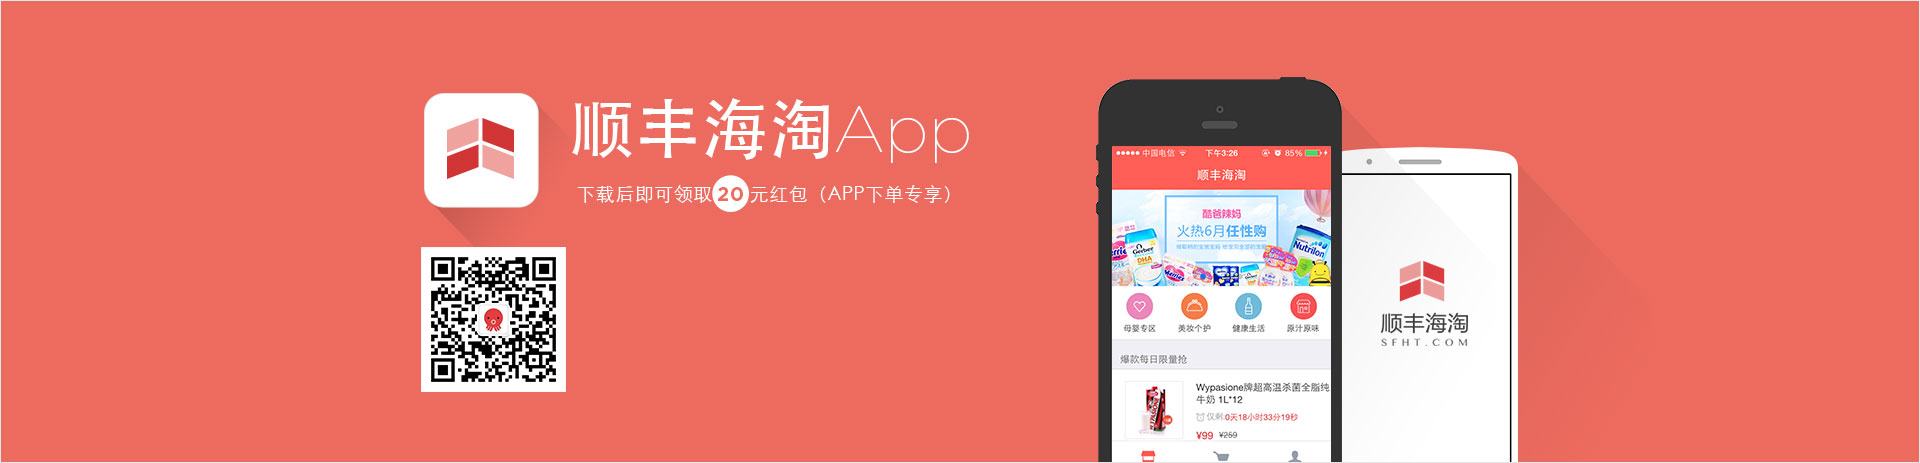
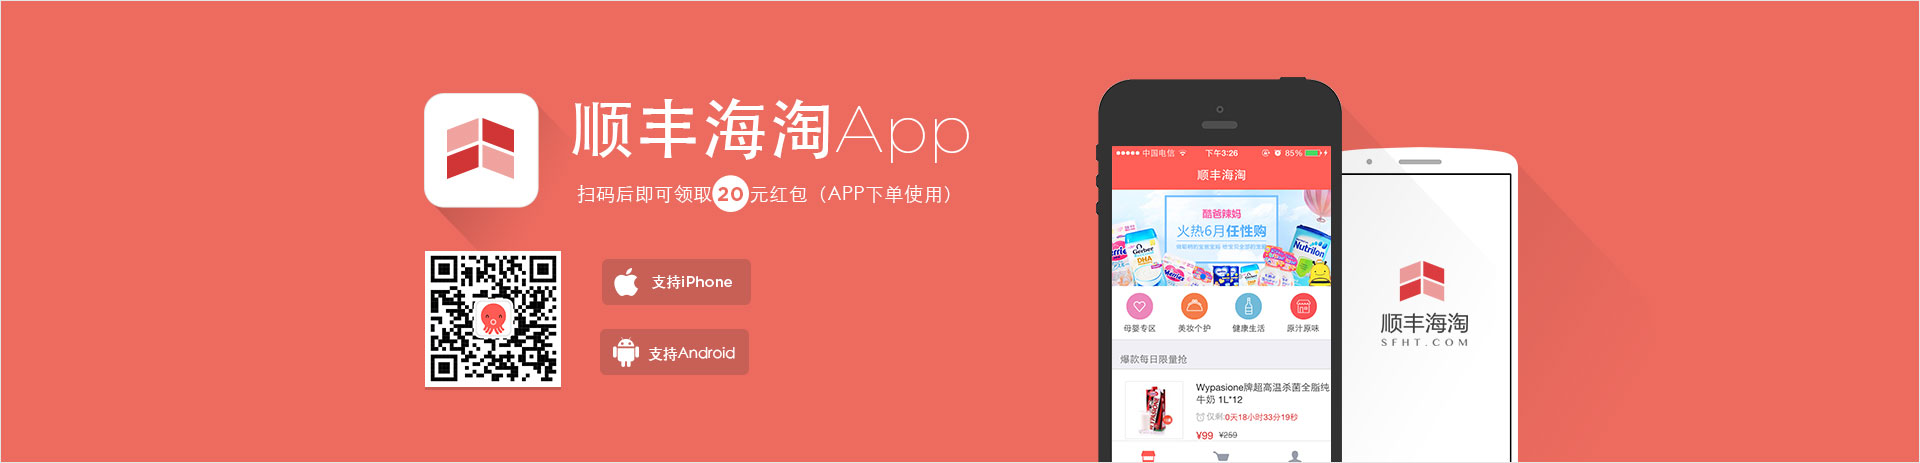
app下载

Changed region(s): [[0.2188, 0.514, 0.4062, 0.8467], [0.4688, 0.3931, 0.5, 0.4536], [0.2812, 0.3931, 0.3438, 0.4233]]

diff --git a/app/css/app.css b/app/css/app.css
@@ -1,1 +1,1 @@
-.app-banner{background:url(../img/app/app-banner.jpg) no-repeat center top;height:464px}.app-banner .pm{position:relative}.app-banner a{position:absolute;width:149px;height:46px;left:231px;text-indent:-999em}.app-banner a:hover{opacity:0.8}.app-banner-ios{top:260px;background:url(../img/app/app-banner-ios.png) no-repeat}.app-banner-android{background:url(../img/app/app-banner-android.png) no-repeat;top:327px}.app-anywhere{position:relative;background:#f1f2e7 url(../img/app/app-map.png) repeat-x center 270px;text-align:center;color:#4a4a4a}.app-anywhere-bg{background:url(../img/app/app-anywhere-bg.png) repeat-x left 474px;height:900px;-webkit-animation:app-anywhere-bg 20s linear forwards infinite;animation:app-anywhere-bg 20s linear forwards infinite}@-webkit-keyframes app-anywhere-bg{100%{background-position:-1190px 474px}}@keyframes app-anywhere-bg{100%{background-position:-1190px 474px}}.app-anywhere h2{font-size:48px;font-weight:normal;margin-bottom:20px;padding-top:96px}.app-anywhere p{font-size:18px}.app-anywhere-phone{margin-left:-138px;position:absolute;left:50%;margin-top:90px}.app-anywhere-plane{position:absolute;left:50%;top:547px;-webkit-transform:translate3d(-50%, -3px, 0);transform:translate3d(-50%, -3px, 0);-webkit-animation:app-anywhere-plane 1s linear forwards infinite;animation:app-anywhere-plane 1s linear forwards infinite}@-webkit-keyframes app-anywhere-plane{50%{-webkit-transform:translate3d(-50%, 3px, 0);transform:translate3d(-50%, 3px, 0)}100%{-webkit-transform:translate3d(-50%, -3px, 0);transform:translate3d(-50%, -3px, 0)}}@keyframes app-anywhere-plane{50%{-webkit-transform:translate3d(-50%, 3px, 0);transform:translate3d(-50%, 3px, 0)}100%{-webkit-transform:translate3d(-50%, -3px, 0);transform:translate3d(-50%, -3px, 0)}}.app-favorable{padding-top:131px;padding-bottom:170px;background:#fff url(../img/app/app-favorable.png) no-repeat center 305px}.app-favorable li{float:left;text-align:center}.app-favorable .li1{width:380px}.app-favorable .li2{width:448px}.app-favorable .li3{width:351px}.app-favorable h2{font-size:48px;text-align:center;font-weight:normal;margin-bottom:345px}.app-favorable h3{min-width:175px;height:48px;line-height:48px;color:#fff;background:#80ba7d;display:inline-block;padding:0 17px;font-weight:normal;margin-bottom:12px;font-size:21px}.app-favorable p{font-size:16px}.app-logistics{background:#f1f2e7;text-align:center;color:#4a4a4a;position:relative}.app-logistics-bg{background:url(../img/app/app-logistics-bg.png) repeat-x left 434px;-webkit-animation:app-logistics-bg 20s linear forwards infinite;animation:app-logistics-bg 20s linear forwards infinite;padding-top:103px;padding-bottom:137px}.app-logistics h2{font-size:48px;margin-bottom:28px;font-weight:normal}.app-logistics p{font-size:16px;margin-bottom:104px}.app-logistics-where{margin-bottom:83px}.app-logistics-tire1,.app-logistics-tire2{position:absolute;left:50%;top:626px;margin-left:-106px}.app-logistics-tire2{margin-left:95px}.app-logistics-car{-webkit-transform:translate(0, -1px);-ms-transform:translate(0, -1px);transform:translate(0, -1px);-webkit-animation:app-logistics-car 0.5s linear forwards infinite;animation:app-logistics-car 0.5s linear forwards infinite}.app-logistics-shadow{position:absolute;top:673px;left:50%;margin-left:-130px;-webkit-animation:app-logistics-shadow 0.5s linear forwards infinite;animation:app-logistics-shadow 0.5s linear forwards infinite}@-webkit-keyframes app-logistics-bg{100%{background-position:-1920px 434px}}@keyframes app-logistics-bg{100%{background-position:-1920px 434px}}@-webkit-keyframes app-logistics-car{50%{-webkit-transform:translate3d(0, 1px, 0);transform:translate3d(0, 1px, 0)}100%{-webkit-transform:translate3d(0, -1px, 0);transform:translate3d(0, -1px, 0)}}@keyframes app-logistics-car{50%{-webkit-transform:translate3d(0, 1px, 0);transform:translate3d(0, 1px, 0)}100%{-webkit-transform:translate3d(0, -1px, 0);transform:translate3d(0, -1px, 0)}}@-webkit-keyframes app-logistics-shadow{50%{-webkit-transform:scaleX(0.8);transform:scaleX(0.8)}100%{-webkit-transform:scaleX(1);transform:scaleX(1)}}@keyframes app-logistics-shadow{50%{-webkit-transform:scaleX(0.8);transform:scaleX(0.8)}100%{-webkit-transform:scaleX(1);transform:scaleX(1)}}.app-user{background:#ec6b5f;color:#fff;text-align:center;padding-top:84px;padding-bottom:81px}.app-user h2{font-size:48px;font-weight:normal;margin-bottom:49px}.app-user ul{width:1184px;height:129px;display:inline-block;border:3px solid #f7c4bf;padding-top:32px;position:relative;-webkit-box-sizing:border-box;-moz-box-sizing:border-box;box-sizing:border-box}.app-user ul:before{content:'';position:absolute;border-width:10px;border-style:solid;border-color:#f7c4bf transparent transparent #f7c4bf;left:37px;bottom:-23px}.app-user li{font-size:18px;line-height:34px;display:inline-block}.app-download{background:#333;color:#fff;padding-top:47px;padding-bottom:100px;text-align:center;font-size:13px;line-height:20px}.app-qrcode{margin-bottom:23px;padding:7px;background:#fff;border:2px solid #262626}.app-download span{display:inline-block;width:22px;height:22px;line-height:22px;text-align:center;color:#ec6b5f;background:#fff;-webkit-border-radius:50%;border-radius:50%}.app-download p{margin-bottom:23px}.app-download-r1{color:#8a8a8a;margin-bottom:10px}.app-download-r2 a{width:31px;height:31px;text-indent:-999em;-webkit-border-radius:50%;border-radius:50%;display:inline-block;margin:0 6px;background-color:#8a8a8a;background-position:center;background-repeat:no-repeat;position:relative}.app-download-qrcode{position:absolute;left:40px;top:-40px;display:none}.app-download-weibo{background-image:url(../img/app/app-download-weibo.png)}.app-download-weibo:hover{background-image:url(../img/app/app-download-weibo-hover.png)}.app-download-weixin{background-image:url(../img/app/app-download-weixin.png)}.app-download-weixin:hover{background-image:url(../img/app/app-download-weixin-hover.png)}.app-download-weixin:hover .app-download-qrcode{display:block}
+.app-banner{background:url(../img/app/app-banner.jpg) no-repeat center top;height:464px}.app-anywhere{position:relative;background:#f1f2e7 url(../img/app/app-map.png) repeat-x center 270px;text-align:center;color:#4a4a4a}.app-anywhere-bg{background:url(../img/app/app-anywhere-bg.png) repeat-x left 474px;height:900px;-webkit-animation:app-anywhere-bg 20s linear forwards infinite;animation:app-anywhere-bg 20s linear forwards infinite}@-webkit-keyframes app-anywhere-bg{100%{background-position:-1190px 474px}}@keyframes app-anywhere-bg{100%{background-position:-1190px 474px}}.app-anywhere h2{font-size:48px;font-weight:normal;margin-bottom:20px;padding-top:96px}.app-anywhere p{font-size:18px}.app-anywhere-phone{margin-left:-138px;position:absolute;left:50%;margin-top:90px}.app-anywhere-plane{position:absolute;left:50%;top:547px;-webkit-transform:translate3d(-50%, -3px, 0);transform:translate3d(-50%, -3px, 0);-webkit-animation:app-anywhere-plane 1s linear forwards infinite;animation:app-anywhere-plane 1s linear forwards infinite}@-webkit-keyframes app-anywhere-plane{50%{-webkit-transform:translate3d(-50%, 3px, 0);transform:translate3d(-50%, 3px, 0)}100%{-webkit-transform:translate3d(-50%, -3px, 0);transform:translate3d(-50%, -3px, 0)}}@keyframes app-anywhere-plane{50%{-webkit-transform:translate3d(-50%, 3px, 0);transform:translate3d(-50%, 3px, 0)}100%{-webkit-transform:translate3d(-50%, -3px, 0);transform:translate3d(-50%, -3px, 0)}}.app-favorable{padding-top:131px;padding-bottom:170px;background:#fff url(../img/app/app-favorable.png) no-repeat center 305px}.app-favorable li{float:left;text-align:center}.app-favorable .li1{width:380px}.app-favorable .li2{width:448px}.app-favorable .li3{width:351px}.app-favorable h2{font-size:48px;text-align:center;font-weight:normal;margin-bottom:345px}.app-favorable h3{min-width:175px;height:48px;line-height:48px;color:#fff;background:#80ba7d;display:inline-block;padding:0 17px;font-weight:normal;margin-bottom:12px;font-size:21px}.app-favorable p{font-size:16px}.app-logistics{background:#f1f2e7;text-align:center;color:#4a4a4a;position:relative}.app-logistics-bg{background:url(../img/app/app-logistics-bg.png) repeat-x left 434px;-webkit-animation:app-logistics-bg 20s linear forwards infinite;animation:app-logistics-bg 20s linear forwards infinite;padding-top:103px;padding-bottom:137px}.app-logistics h2{font-size:48px;margin-bottom:28px;font-weight:normal}.app-logistics p{font-size:16px;margin-bottom:104px}.app-logistics-where{margin-bottom:83px}.app-logistics-tire1,.app-logistics-tire2{position:absolute;left:50%;top:626px;margin-left:-106px}.app-logistics-tire2{margin-left:95px}.app-logistics-car{-webkit-transform:translate(0, -1px);-ms-transform:translate(0, -1px);transform:translate(0, -1px);-webkit-animation:app-logistics-car 0.5s linear forwards infinite;animation:app-logistics-car 0.5s linear forwards infinite}.app-logistics-shadow{position:absolute;top:673px;left:50%;margin-left:-130px;-webkit-animation:app-logistics-shadow 0.5s linear forwards infinite;animation:app-logistics-shadow 0.5s linear forwards infinite}@-webkit-keyframes app-logistics-bg{100%{background-position:-1920px 434px}}@keyframes app-logistics-bg{100%{background-position:-1920px 434px}}@-webkit-keyframes app-logistics-car{50%{-webkit-transform:translate3d(0, 1px, 0);transform:translate3d(0, 1px, 0)}100%{-webkit-transform:translate3d(0, -1px, 0);transform:translate3d(0, -1px, 0)}}@keyframes app-logistics-car{50%{-webkit-transform:translate3d(0, 1px, 0);transform:translate3d(0, 1px, 0)}100%{-webkit-transform:translate3d(0, -1px, 0);transform:translate3d(0, -1px, 0)}}@-webkit-keyframes app-logistics-shadow{50%{-webkit-transform:scaleX(0.8);transform:scaleX(0.8)}100%{-webkit-transform:scaleX(1);transform:scaleX(1)}}@keyframes app-logistics-shadow{50%{-webkit-transform:scaleX(0.8);transform:scaleX(0.8)}100%{-webkit-transform:scaleX(1);transform:scaleX(1)}}.app-user{background:#ec6b5f;color:#fff;text-align:center;padding-top:84px;padding-bottom:81px}.app-user h2{font-size:48px;font-weight:normal;margin-bottom:49px}.app-user ul{width:1184px;height:129px;display:inline-block;border:3px solid #f7c4bf;padding-top:32px;position:relative;-webkit-box-sizing:border-box;-moz-box-sizing:border-box;box-sizing:border-box}.app-user ul:before{content:'';position:absolute;border-width:10px;border-style:solid;border-color:#f7c4bf transparent transparent #f7c4bf;left:37px;bottom:-23px}.app-user li{font-size:18px;line-height:34px;display:inline-block}.app-download{background:#333;color:#fff;padding-top:47px;padding-bottom:100px;text-align:center;font-size:13px;line-height:20px}.app-qrcode{margin-bottom:23px;padding:7px;background:#fff;border:2px solid #262626}.app-download span{display:inline-block;width:22px;height:22px;line-height:22px;text-align:center;color:#ec6b5f;background:#fff;-webkit-border-radius:50%;border-radius:50%}.app-download p{margin-bottom:23px}.app-download-r1{color:#8a8a8a;margin-bottom:10px}.app-download-r2 a{width:31px;height:31px;text-indent:-999em;-webkit-border-radius:50%;border-radius:50%;display:inline-block;margin:0 6px;background-color:#8a8a8a;background-position:center;background-repeat:no-repeat;position:relative}.app-download-qrcode{position:absolute;left:40px;top:-40px;display:none}.app-download-weibo{background-image:url(../img/app/app-download-weibo.png)}.app-download-weibo:hover{background-image:url(../img/app/app-download-weibo-hover.png)}.app-download-weixin{background-image:url(../img/app/app-download-weixin.png)}.app-download-weixin:hover{background-image:url(../img/app/app-download-weixin-hover.png)}.app-download-weixin:hover .app-download-qrcode{display:block}

diff --git a/app/html/app.html b/app/html/app.html
@@ -1,1 +1,1 @@
-<!DOCTYPE html PUBLIC "-//W3C//DTD XHTML 1.0 Transitional//EN" "http://www.w3.org/TR/xhtml1/DTD/xhtml1-transitional.dtd"><html xmlns="http://www.w3.org/1999/xhtml"><head><meta http-equiv="Content-Type" content="text/html; charset=utf-8" /><meta name="viewport" content="width=1280"><title>app下载</title><link href="../css/common.css" rel="stylesheet" type="text/css" /><link href="../css/app.css" rel="stylesheet" type="text/css" /></head><body><div class="app-banner"><div class="pm"><a href="" class="app-banner-ios">app store下载</a><a href="" class="app-banner-android">android下载</a></div></div><div class="app-anywhere"><div class="app-anywhere-bg pm"><h2>随时随地海淘</h2><p>地铁公交想淘就淘  从此海淘变成上下班消遣项啦</p><img class="app-anywhere-phone" src="../img/app/app-anywhere-phone.png"><img class="app-anywhere-plane" src="../img/app/app-anywhere-plane.png"></div></div><div class="app-favorable"><div class="pm"><h2>App专享优惠</h2><ul class="clearfix"><li class="li1"><h3>APP专属红包</h3><p>APP专属无门槛抵用券，还不快抢</p></li><li class="li2"><h3>积分零钱包</h3><p>APP专享双倍积分，下单抵用直减</p></li><li class="li3"><h3>一大波专享活动来袭</h3><p>不是APP用户我不告诉他 </p></li></ul></div></div><div class="app-logistics"><div class="app-logistics-bg"><h2>随时随地查物流</h2><p>宝贝到哪里了？APP知道!</p><img class="app-logistics-where" src="../img/app/app-logistics-where.png"><br><img class="app-logistics-car" src="../img/app/app-car.png"><img class="app-logistics-shadow" src="../img/app/app-shadow.png"><img class="app-logistics-tire1" src="../img/app/app-tire.png"><img class="app-logistics-tire2" src="../img/app/app-tire.png"></div></div><div class="app-user"><h2>听听用户心声</h2><ul><li>他们给我推荐这个APP，</li><li>一开始我是拒绝的，</li><li>他们说都是海外正品还有很多优惠，</li><li>我觉得也是骗人的，</li><li>直到我用了以后，</li><li>Duang~~买买买，</li><li>根本停不下来！</li></ul></div><div class="app-download"><img src="../img/app/app-qrcode.png" class="app-qrcode"><p>下载后即可领取<span>20</span>元红包（APP下单专享）</p><div class="app-download-r1">关注我们</div><div class="app-download-r2"><a class="app-download-weibo" href="">微博</a><a class="app-download-weixin" href="">微信<img src="../img/app/app-download-qrcode.png" class="app-download-qrcode"></a></div></div></body></html>
+<!DOCTYPE html PUBLIC "-//W3C//DTD XHTML 1.0 Transitional//EN" "http://www.w3.org/TR/xhtml1/DTD/xhtml1-transitional.dtd"><html xmlns="http://www.w3.org/1999/xhtml"><head><meta http-equiv="Content-Type" content="text/html; charset=utf-8" /><meta name="viewport" content="width=1280"><title>app下载</title><link href="../css/common.css" rel="stylesheet" type="text/css" /><link href="../css/app.css" rel="stylesheet" type="text/css" /></head><body><div class="app-banner"></div><div class="app-anywhere"><div class="app-anywhere-bg pm"><h2>随时随地海淘</h2><p>地铁公交想淘就淘  从此海淘变成上下班消遣项啦</p><img class="app-anywhere-phone" src="../img/app/app-anywhere-phone.png"><img class="app-anywhere-plane" src="../img/app/app-anywhere-plane.png"></div></div><div class="app-favorable"><div class="pm"><h2>App专享优惠</h2><ul class="clearfix"><li class="li1"><h3>APP专属红包</h3><p>APP专属无门槛抵用券，还不快抢</p></li><li class="li2"><h3>积分零钱包</h3><p>APP专享双倍积分，下单抵用直减</p></li><li class="li3"><h3>一大波专享活动来袭</h3><p>不是APP用户我不告诉他 </p></li></ul></div></div><div class="app-logistics"><div class="app-logistics-bg"><h2>随时随地查物流</h2><p>宝贝到哪里了？APP知道!</p><img class="app-logistics-where" src="../img/app/app-logistics-where.png"><br><img class="app-logistics-car" src="../img/app/app-car.png"><img class="app-logistics-shadow" src="../img/app/app-shadow.png"><img class="app-logistics-tire1" src="../img/app/app-tire.png"><img class="app-logistics-tire2" src="../img/app/app-tire.png"></div></div><div class="app-user"><h2>听听用户心声</h2><ul><li>他们给我推荐这个APP，</li><li>一开始我是拒绝的，</li><li>他们说都是海外正品还有很多优惠，</li><li>我觉得也是骗人的，</li><li>直到我用了以后，</li><li>Duang~~买买买，</li><li>根本停不下来！</li></ul></div><div class="app-download"><img src="../img/app/app-qrcode.png" class="app-qrcode"><p>扫码后即可领取<span>20</span>元红包（APP下单使用）</p><div class="app-download-r1">关注我们</div><div class="app-download-r2"><a class="app-download-weibo" href="">微博</a><a class="app-download-weixin" href="">微信<img src="../img/app/app-download-qrcode.png" class="app-download-qrcode"></a></div></div></body></html>

diff --git a/app/scss/app.scss b/app/scss/app.scss
@@ -4,27 +4,6 @@
 	background: url(#{$bg-url}app/app-banner.jpg) no-repeat center top;
 	height: 464px;
 }
-.app-banner .pm{
-	position: relative;
-}
-.app-banner a{
-	position: absolute;
-	width: 149px;
-	height: 46px;
-	left:231px;
-	text-indent: -999em;
-}
-.app-banner a:hover{
-	opacity:0.8;
-}
-.app-banner-ios{
-	top: 260px;
-	background: url(#{$bg-url}app/app-banner-ios.png) no-repeat;
-}
-.app-banner-android{
-	background: url(#{$bg-url}app/app-banner-android.png) no-repeat;
-	top: 327px;
-}
 
 .app-anywhere{
 	position: relative;
